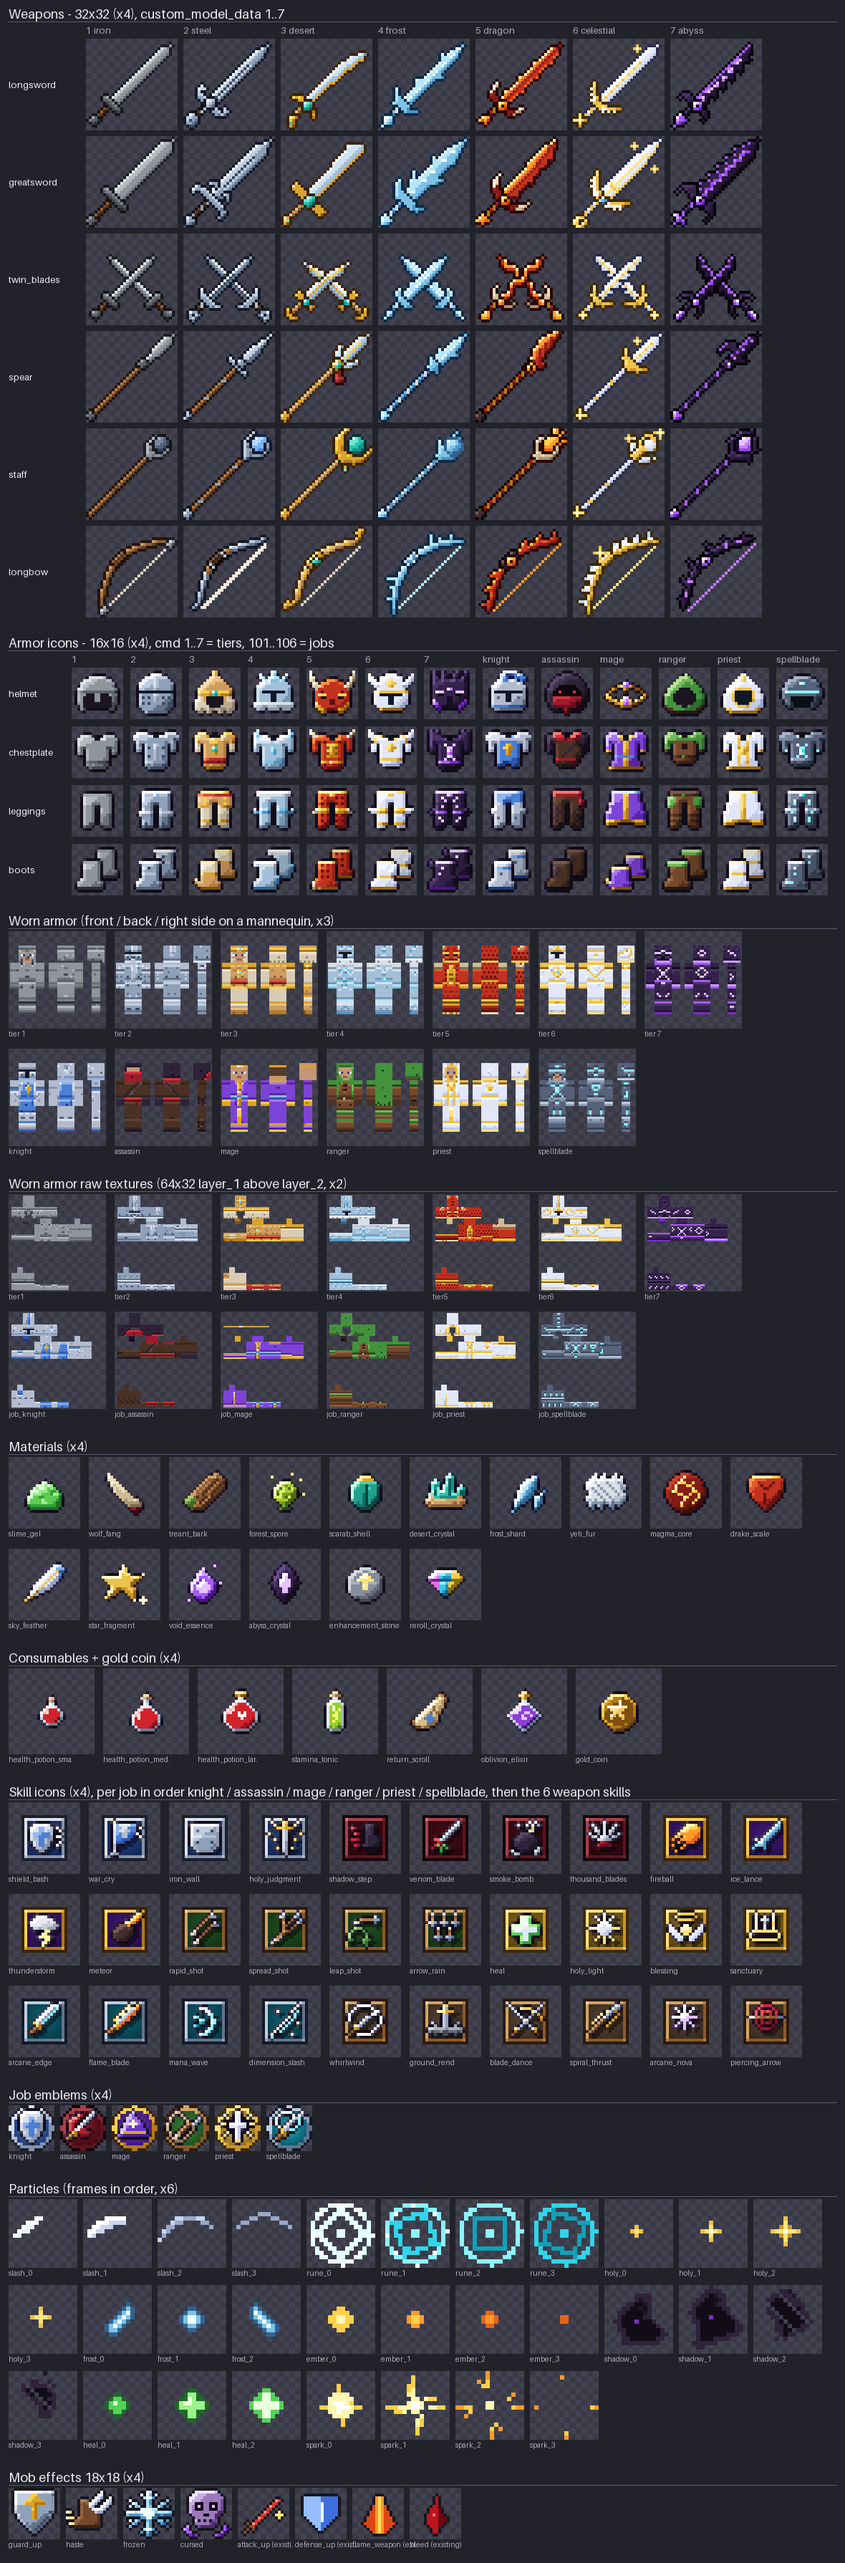
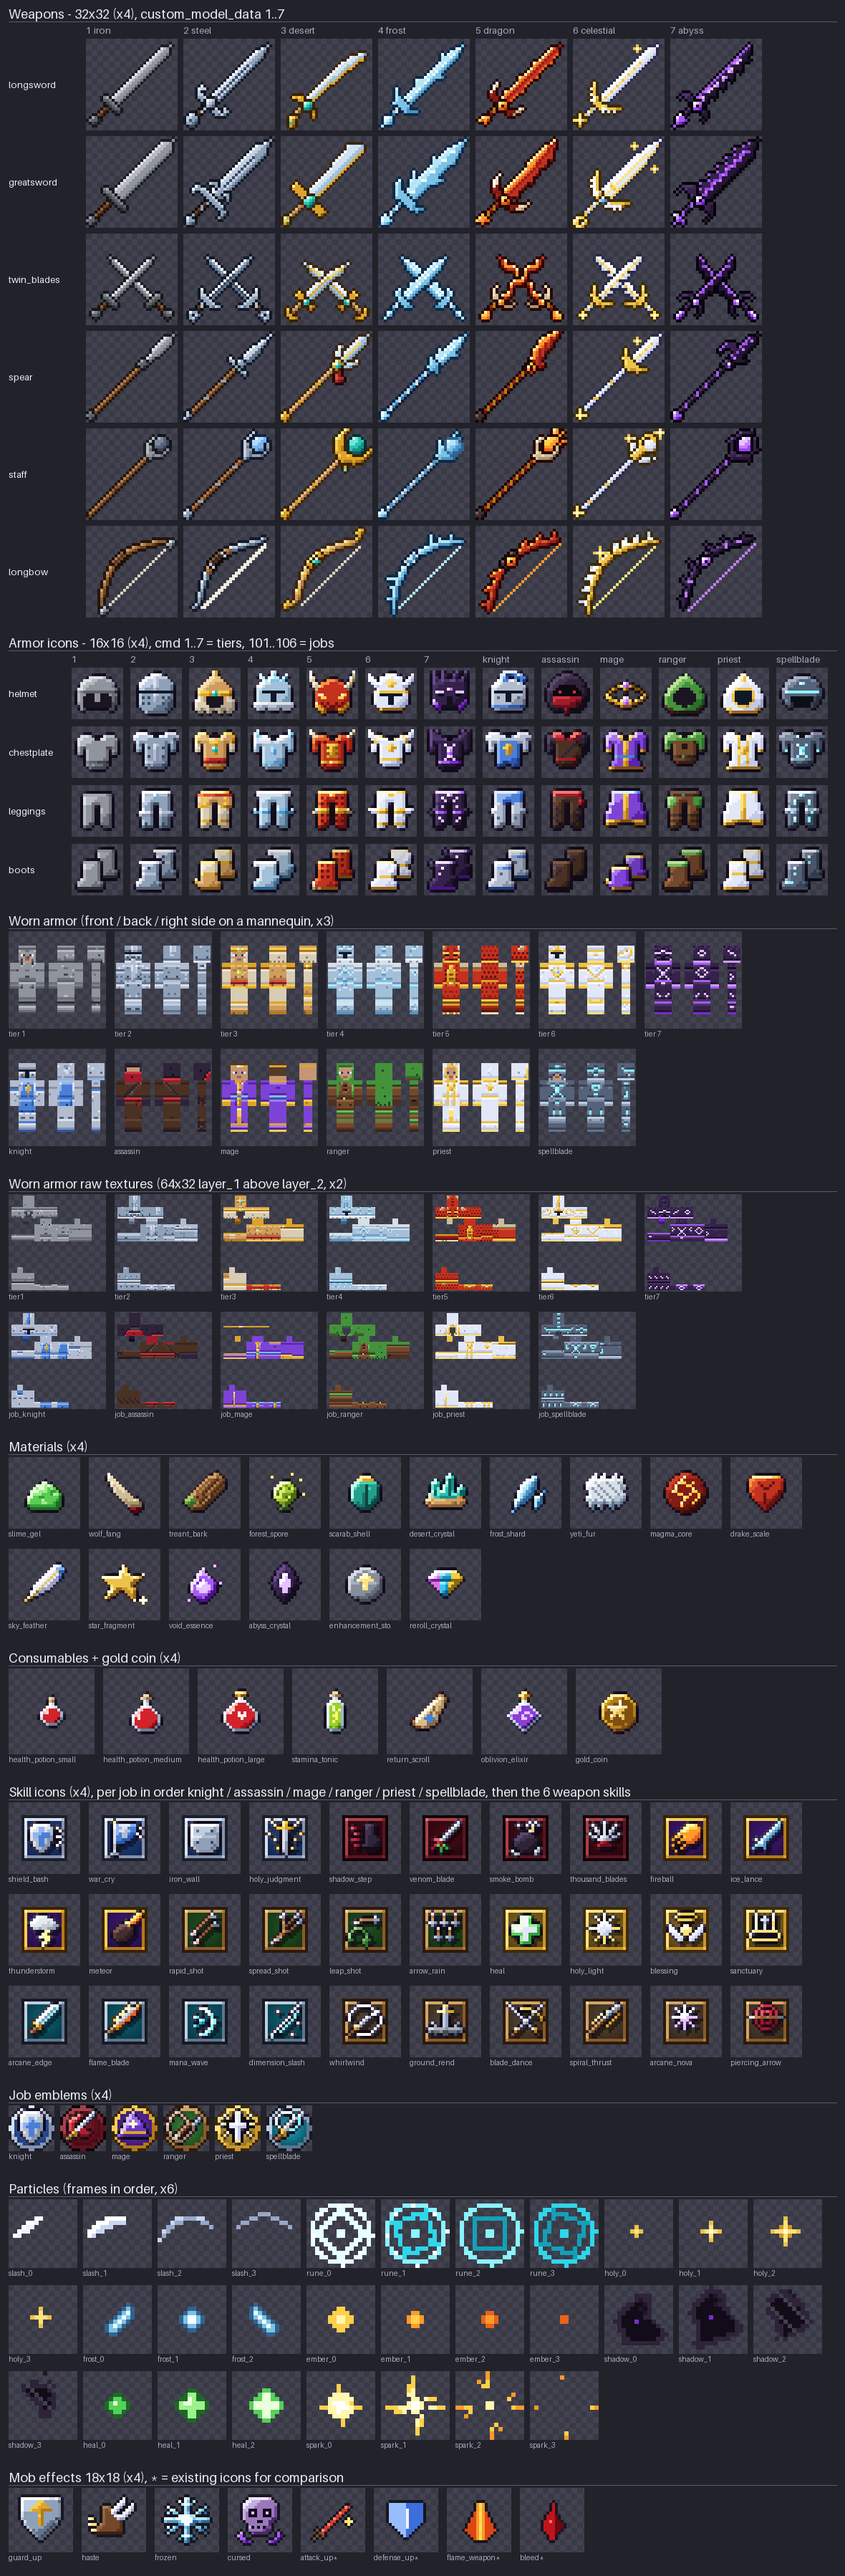
Art: fiercer dragon helm, preview label fixes
Claude-Session: https://claude.ai/code/session_017h8AW8hdaQXmpSprvhaNJa

Changed region(s): [[0.0, 0.031, 0.9763, 1.0], [0.8847, 0.5584, 0.9458, 0.6205]]

diff --git a/tools/art/generate_all.py b/tools/art/generate_all.py
@@ -183,9 +183,9 @@ def main() -> int:
     for eid in ("attack_up", "defense_up", "flame_weapon", "bleed"):
         p = os.path.join(TEX, "mob_effect", f"{eid}.png")
         if os.path.exists(p):
-            old.append((eid + " (existing)", Image.open(p).convert("RGBA")))
-    secs.append(preview.flow_section("Mob effects 18x18 (x4)", W, [(n, c.image()) for n, c in effect_imgs] + old, 4, 72,
-                                     gap=8))
+            old.append((eid + "*", Image.open(p).convert("RGBA")))
+    secs.append(preview.flow_section("Mob effects 18x18 (x4), * = existing icons for comparison", W,
+                                     [(n, c.image()) for n, c in effect_imgs] + old, 4, 90, gap=12))
     out = os.path.join(HERE, "preview.png")
     preview.stack(secs, out, args.sections)
     print(f"preview: {os.path.relpath(out, ROOT)}")

diff --git a/tools/art/armor_icons.py b/tools/art/armor_icons.py
@@ -121,12 +121,12 @@ HELMET = {
         ".SS.AAAAAAAA.SS.",
         ".SSSAAAAAAAASSS.",
         "..SAAAAAAAAAAS..",
-        "..AAaAAAAAAaAA..",
-        "..ARRRAAAARRRA..",
-        "..AADDAAAADDAA..",
-        "..AAAAAaaAAAAA..",
-        "..BAAAAaaAAAAB..",
-        "..BBAAAAAAAABB..",
+        "..AAAAAAAAAAAA..",
+        "..ARRAAAAAARRA..",
+        "..AARRAAAARRAA..",
+        "..AAAAAAAAAAAA..",
+        "..BAaAaAAaAaAB..",
+        "..BBAaAaaAaABB..",
         "...BBBAAAABBB...",
         "....BB....BB....",
         "................",

diff --git a/tools/art/preview.py b/tools/art/preview.py
@@ -84,7 +84,8 @@ def flow_section(title, width, named_images, scale, box, gap=8, label=True, labe
             y += box + gap + (label_h if label else 0)
         s.add(cell(im, scale, box), x, y)
         if label:
-            short = name if len(name) <= 18 else name[:17] + "."
+            lim = max(10, box // 6)
+            short = name if len(name) <= lim else name[:lim - 1] + "."
             s.text(short, x, y + box + 1, 10)
         x += box + gap
     return s
